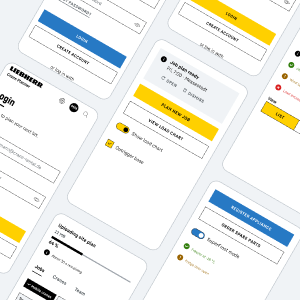
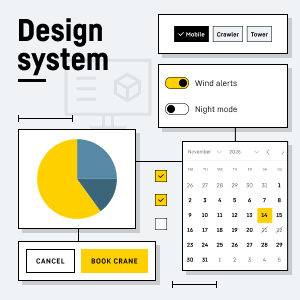
teaser fix

diff --git a/styles.css b/styles.css
@@ -1573,7 +1573,7 @@ footer {
     transition: opacity 0.25s ease, transform 0.25s ease, visibility 0s linear 0.25s;
   }
   .next-arrow {
-  font-size: 2rem;
+  font-size: 3rem;
 }
   nav.nav-open .nav-links {
     opacity: 1;
